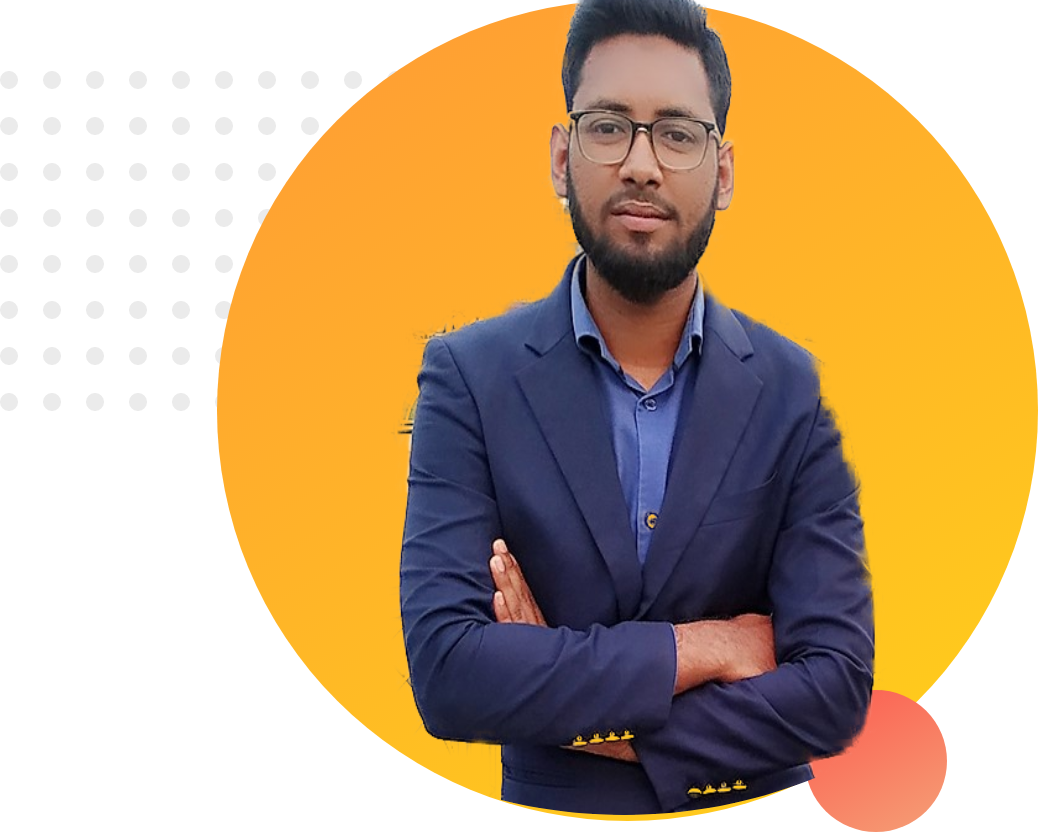
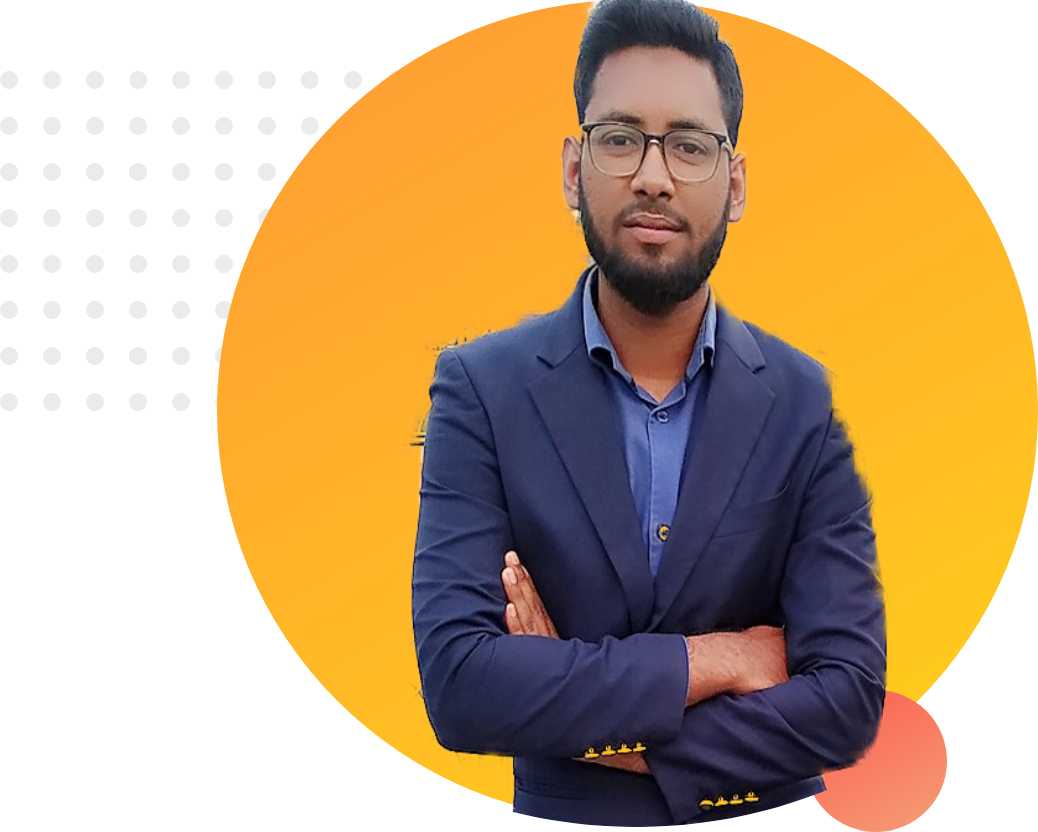
complete personal website

Changed region(s): [[0.3699, 0.0, 0.8632, 1.0], [0.5241, 0.5312, 0.5549, 0.5625], [0.4933, 0.8438, 0.5241, 0.875]]

diff --git a/index.html b/index.html
@@ -8,17 +8,47 @@
     <link rel="stylesheet" href="style.css">
 </head>
 <body>
-    <section>
+    <section class="top-banner">
         <div class="half-width">
             <h1> Welcome To </h1>
-            <h1> <span class="name-highlight">   Mainul Islam Fariqi's </span> website </h1>
+            <h2> <span class="orange-highlight">   Mainul Islam Fariqi's </span> website </h2>
             <h3> Professional Web Developer </h3>
             <p> I am a Full Stack web Developer. I have 2 years coding Experience. I can Develop any kind of website. I am good at web Deveopment. Because I develop client's website and many practical projects. I can use Frontend Web Framework like React js. I can also use couple of Backend Web Framework like Node js, Django. These Web Framework are very popular to develop website. YouTube, Instagram are built in Django.</p>
+            <a class="link-button" target="blank" href="#"> HIRE ME </a>
         </div>
         <div class="half-width">
             <img src="images/profile.png" alt="">
         </div>
     </section>
-    
+    <section class="dream-area "> 
+        <div class="half-width">
+            <img src="images/profile2.png" alt="">
+        </div>
+        <div class="half-width">
+            <h1> Dream Big </h1>
+            <h2> Become a Web Developer Expert </h2>
+            <p>I Want to be a Professional Web Developer! Also I want to be a Artificial Intelligence Engineer. That's my goal. </p>
+            <a class="link-button" href="">Download Resume</a>
+        </div>
+    </section>
+    <section class="experience-area">
+        <h2 style="margin-left: 4.1rem;"> Experiences </h2>
+        <div id="full-stack" class="half-width single-experience">
+            
+            <h2> Full Stack Web Developer </h2>
+            <h3 class="orange-highlight"> 2021 - present | Pro level Web Dev </h3>
+            <p> I am the master of HTML, CSS and Javascript. I know everything needed to make a website function, efficient. I didn't stop with the web. I went beyond with most popular Javascript framework called React JS. I even know the deployment, server and security. I will give you 100% web solution.</p>
+        </div>
+        <div id="baby-web" class="half-width single-experience">
+            <h2> Baby Web Developer </h2>
+            <h3 class="orange-highlight"> 2019 - 2020 | Learning Web Development </h3>
+            <p> I am the master of HTML, CSS and Javascript. I know everything needed to make a website function, efficient. I didn't stop with the web. I went beyond with most popular Javascript framework called React JS. I even know the deployment, server and security. I will give you 100% web solution.</p>
+        </div>
+    </section>
+    <footer>
+        <p>
+            &copy; Mainul 2019, all rights reserved.
+        </p>
+    </footer>
 </body>
 </html>

diff --git a/style.css b/style.css
@@ -1,10 +1,29 @@
 body{
     font-family: 'Poppins', sans-serif;
+    margin:0;
+    padding: 0;
 }
 h1{
     font-size:3rem;
 }
-.name-highlight{
+h2{
+    font-size:2rem;
+}
+p{
+    text-align:justify;
+    color: dimgray;
+}
+section{
+    height: 36rem;
+}
+/* section{
+    margin-bottom: 10rem;
+} */
+.link-button{
+    text-decoration: none;
+    text-transform: uppercase;
+}
+.orange-highlight{
     color: orange;
 }
 .half-width{
@@ -15,4 +34,50 @@ h1{
 }
 .half-width img{
     width:100%;
+    margin-top: 2rem;
+}
+.top-banner{
+    background-image: url("images/top-banner.png");
+    height:38rem;
+    background-repeat: no-repeat;
+}
+.link-button {
+    background-image: linear-gradient(45deg,lightsalmon,tomato);
+    padding: 10px 20px;
+    border-radius: 5px;
+    color: white;
+    font-weight: 700;
+}
+
+.dream-area{
+    background-image: url("images/dream-bg.png");
+    background-repeat: no-repeat;
+    background-position: bottom right ;
+}
+.single-experience{
+    height: 50%;
+    box-shadow: 10px 10px 40px gray;
+    border-radius: 5px;
+    padding: 1rem;
+    background-color: white;
+}
+.experience-area{
+    background-image: url("images/exp-bg.png");
+    background-repeat: no-repeat;
+    background-position: left;
+}
+#full-stack{
+    border-left:7px solid;
+    border-image: linear-gradient( 180deg,tomato, orange);
+    border-image-slice: 1;
+    border-radius: 5px;
+}
+#baby-web{
+    border-left:7px solid;
+    border-image: linear-gradient( 180deg, blue,cyan);
+    border-image-slice: 1;
+}
+footer p{
+    font-size: 12px;
+    text-align: center;
 }
